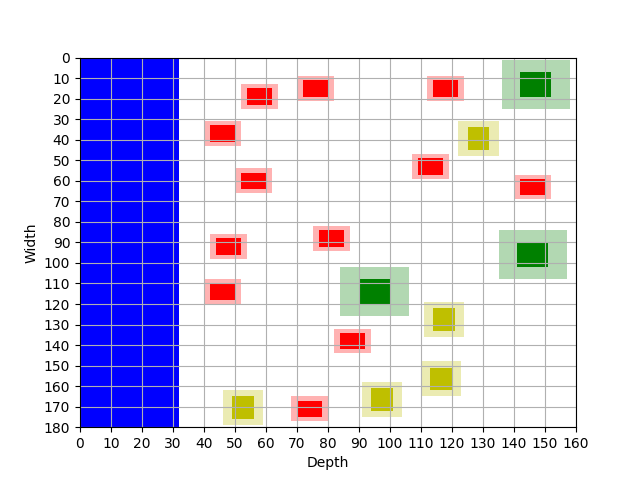
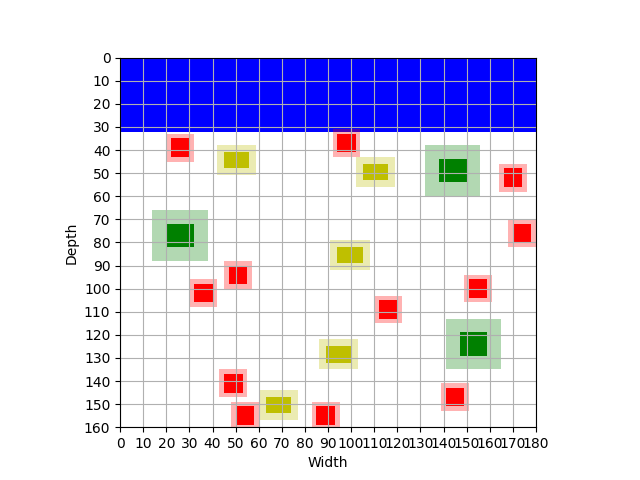
Enforce square grid

diff --git a/main.py b/main.py
@@ -4,34 +4,23 @@ from code.algorithms import randomize
 
 if __name__ == "__main__":
 
-<<<<<<< HEAD
 	# Create grid
     test_grid = grid.Grid(20, "data/wijken/wijk_1.csv")
     # test_grid.print_grid()
-=======
-	Create grid
-    test_grid = grid.Grid(20, "data/wijken/wijk_1.csv")
-    test_grid.print_grid()
->>>>>>> 6de122252cabee852620633ffd45d5247b35334e
 
-    test_grid.print_grid()
-    water = test_grid.load_water("data/wijken/wijk_2.csv")
-    print(water)
+    # test_grid.print_grid()
+    # water = test_grid.load_water("data/wijken/wijk_2.csv")
+    # print(water)
     
-    Randomize algorithm
+    # Randomize algorithm
 
     random_config = randomize.random_assignment(test_grid)
 
-    print("New grid:")
-    random_config.print_grid()
+    # print("New grid:")
+    # random_config.print_grid()
 
-<<<<<<< HEAD
     # Visualize case
     vis.visualize(random_config)
-=======
-    Visualize case
-    vis.visualize(test_grid)
->>>>>>> 6de122252cabee852620633ffd45d5247b35334e
 
     # Create csv output file
-    test_grid.create_output()
+    # test_grid.create_output()

diff --git a/code/visualization/visualize.py b/code/visualization/visualize.py
@@ -26,6 +26,7 @@ def visualize(grid):
 
     # Show grid
     plt.grid(True)
+    plt.gca().set_aspect("equal")
 
     # Load water coordinates from correct map
     water = grid.load_water(grid.map)
